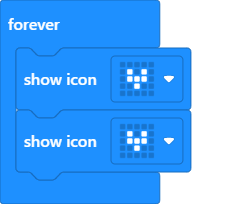
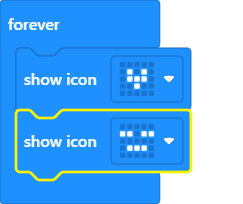
another change

diff --git a/main.ts b/main.ts
@@ -1,4 +1,4 @@
 basic.forever(function () {
     basic.showIcon(IconNames.SmallHeart)
-    basic.showIcon(IconNames.SmallHeart)
+    basic.showIcon(IconNames.Asleep)
 })
